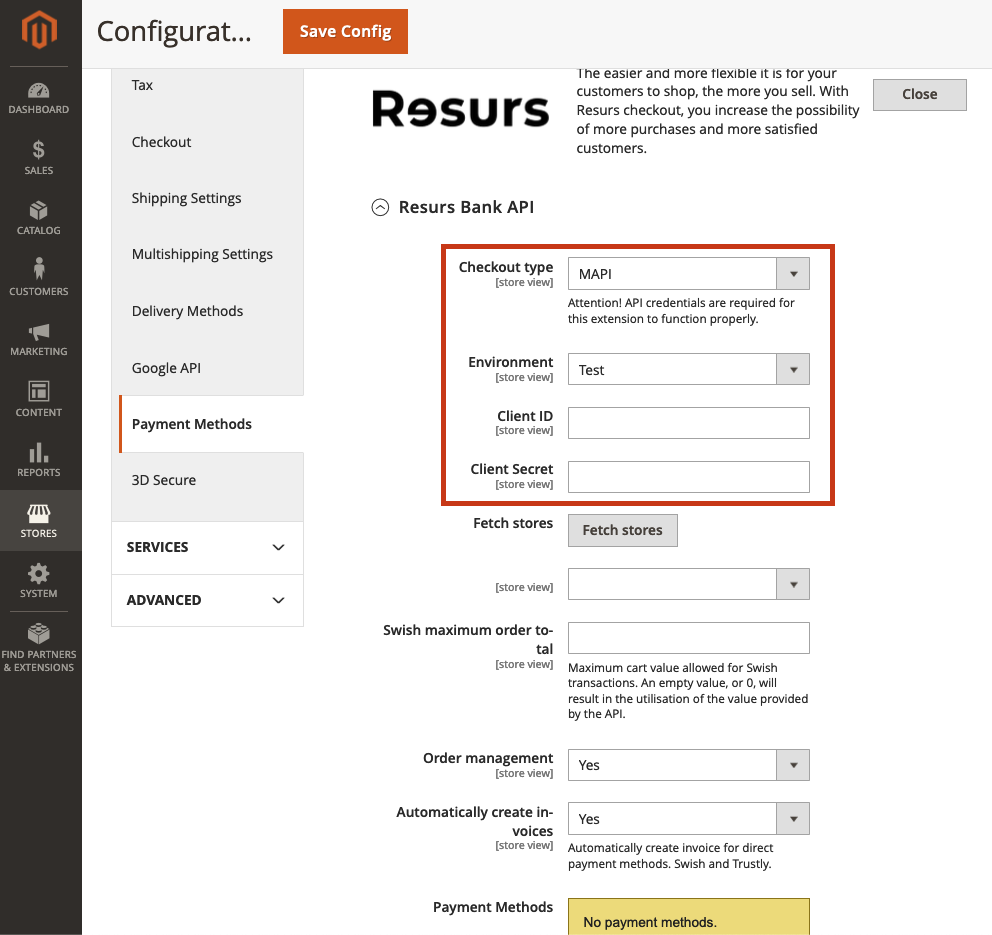
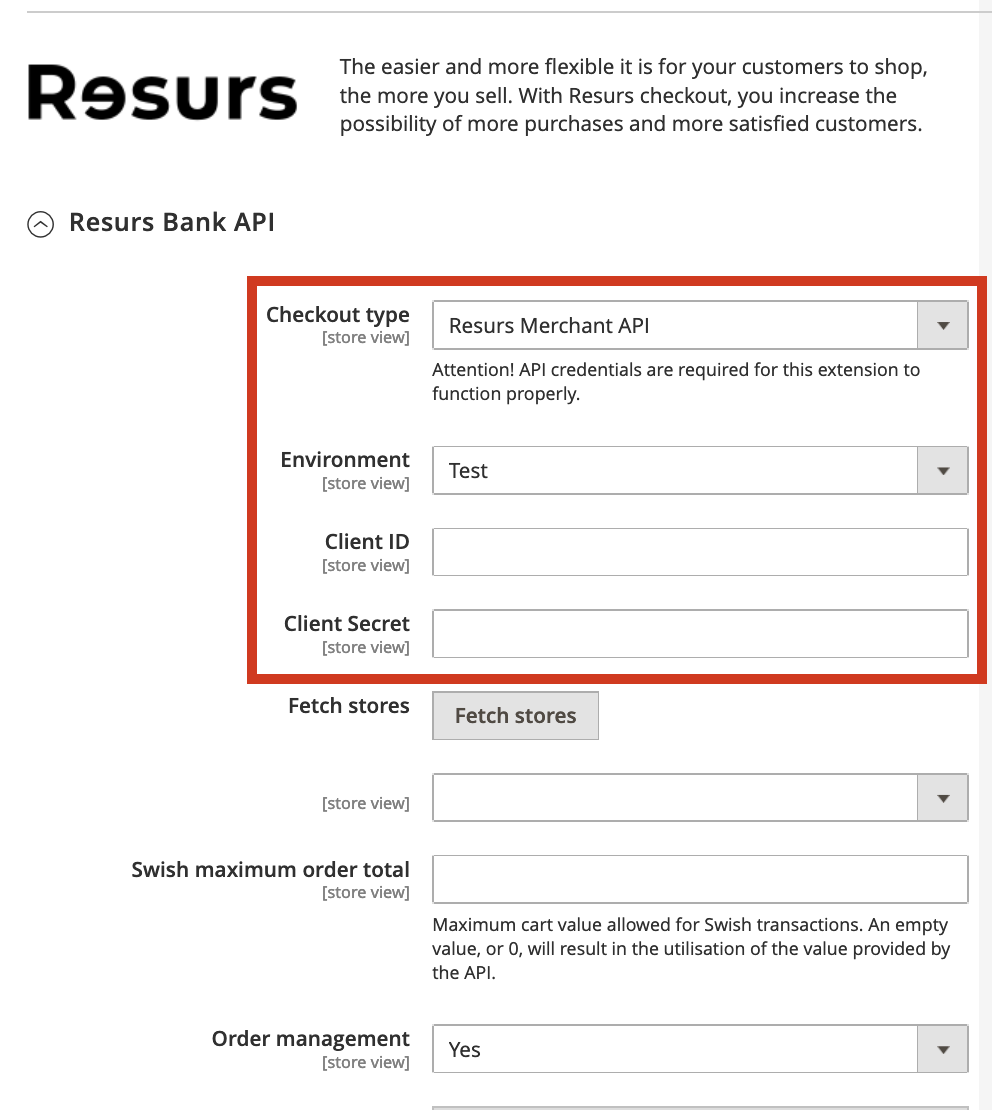
Update Magento documentation

diff --git a/docs/platform-plugins/magento-modules/magento-mapi.md b/docs/platform-plugins/magento-modules/magento-mapi.md
@@ -57,7 +57,7 @@ Payment Method configuration page in the Magento Admin Panel:
 
 Please configure the following:
 
-* Checkout Type: Select **MAPI**
+* Checkout Type: Select **Resurs Merchant API**
 * Environment: Select **Production** or **Test**, depending on whether this is
   a production or test environment.
 * Client ID: Enter your Resurs Bank *API Client ID*.
